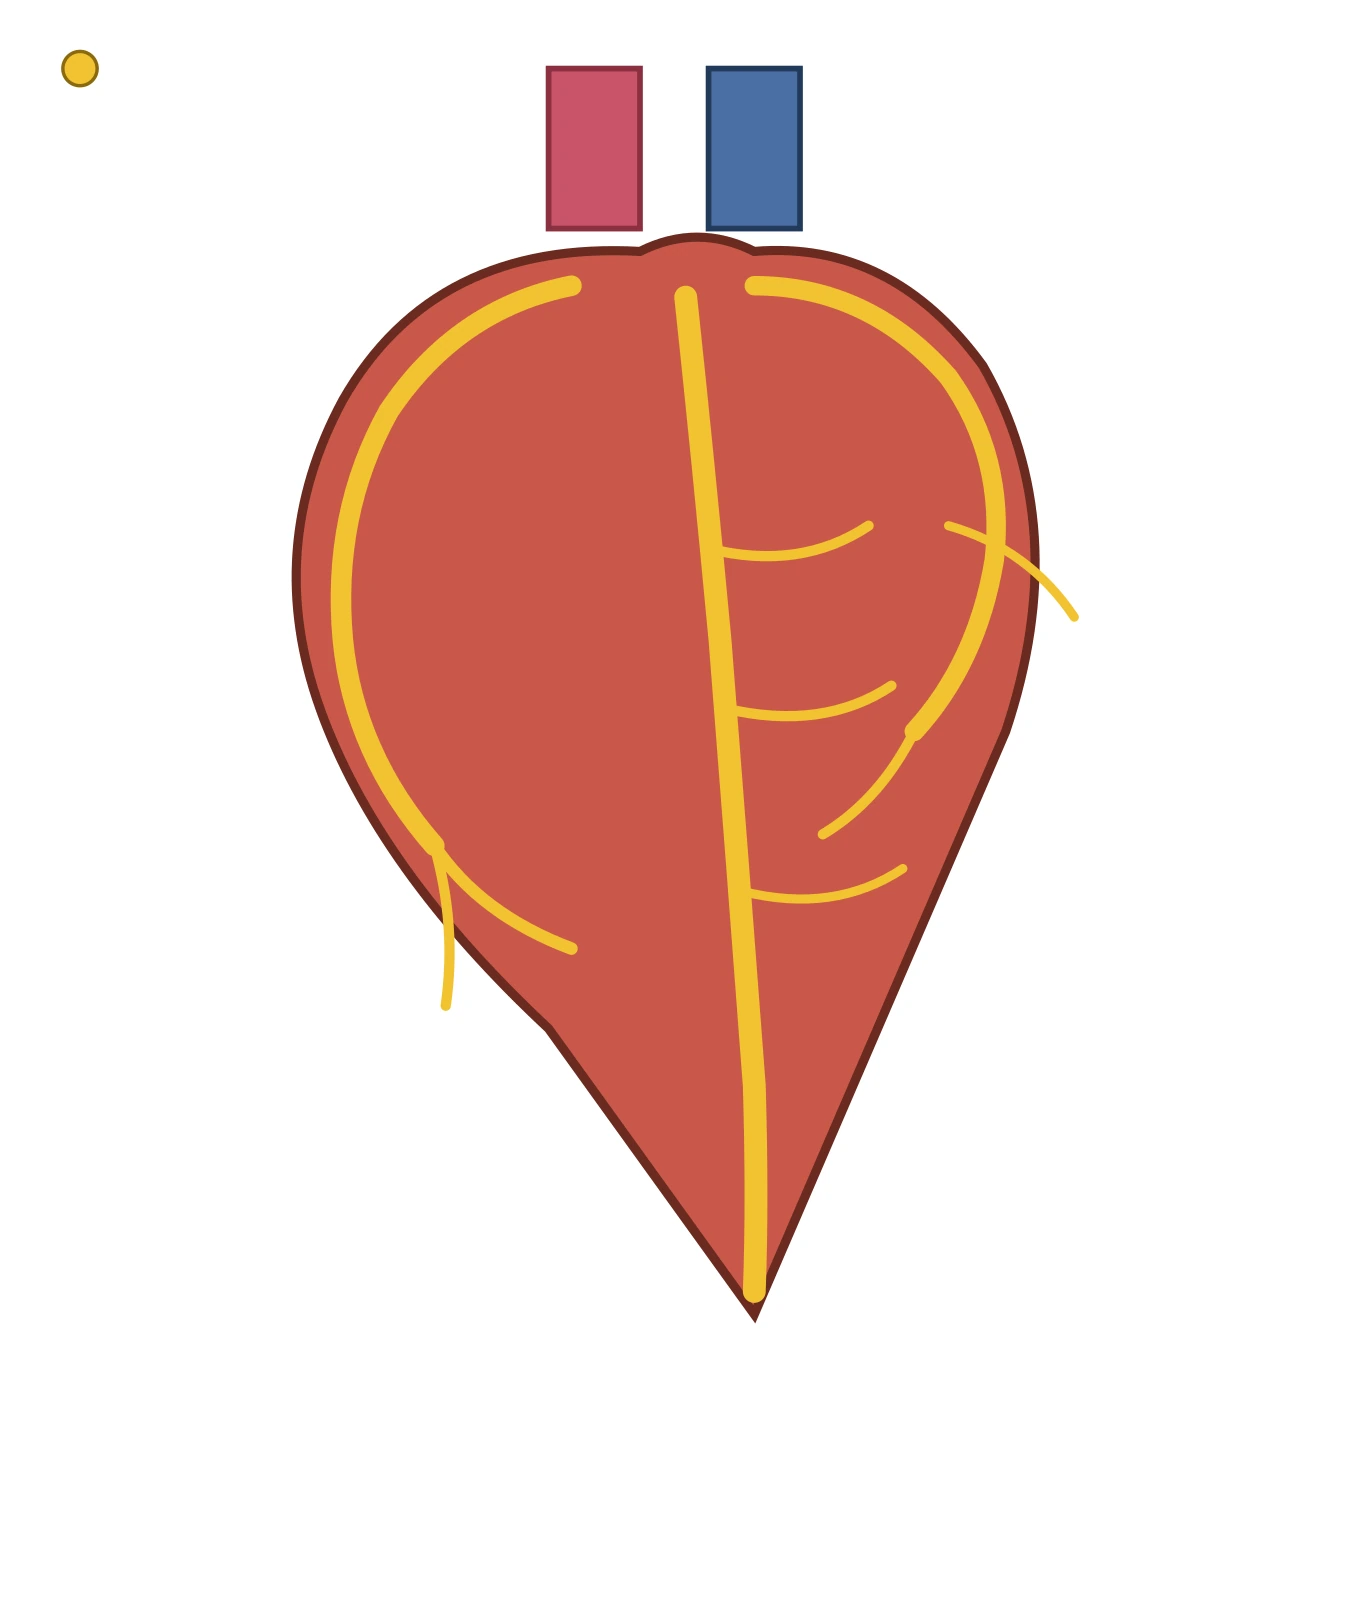
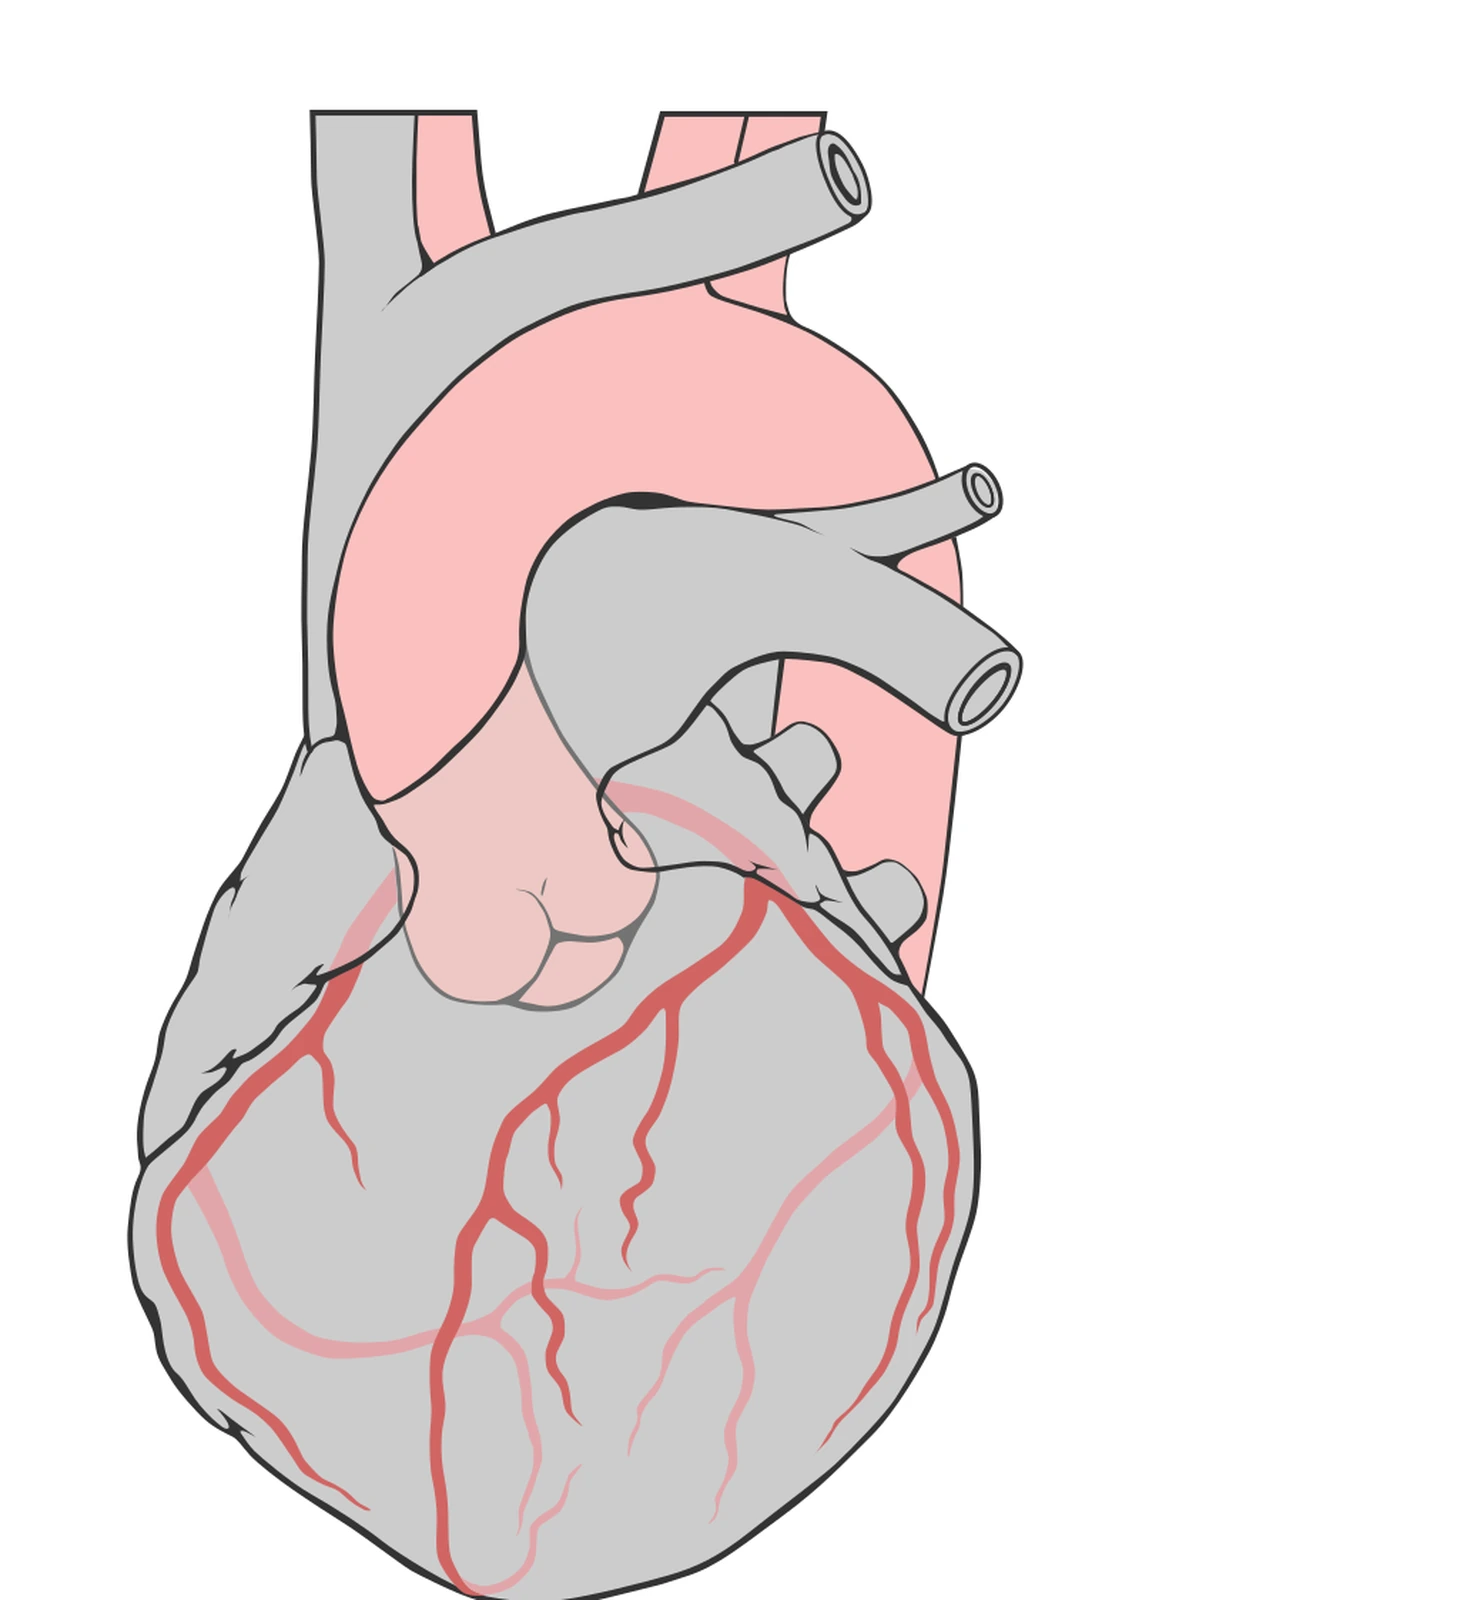
feat: replace 3 more B-tier images with open-license art, resolve Q140 honestly
Continuing the image-first quality pass on top of the 9 S-rank
replacements already on this branch:

- heart_valve_plane.webp (new): Servier Medical Art "Heart valves"
  (superior valve-plane view, AnatomyTOOL, CC BY 4.0), replacing the
  old heart_valves_schematic.webp for Q065/Q066 (tricuspid/mitral,
  pulmonary/aortic). Q129 (chordae tendineae/papillary muscles) keeps
  the old asset unchanged, since the new valve-plane view doesn't
  actually show that structure -- one image per teaching purpose
  rather than forcing a single image to do both.
- q041_alveolar_sac.webp: Servier Medical Art "Alveolar anatomy"
  (AnatomyTOOL, CC BY 4.0), replacing the old simplified grape-cluster
  circles for Q041/Q154.
- q073_coronary_arteries.webp: Patrick J. Lynch / C. Carl Jaffe, MD
  "Coronary arteries" (AnatomyTOOL, CC BY-SA 4.0), replacing the old
  teardrop-silhouette-plus-colored-lines version for Q073/Q074. The
  small in-image creator credit was cropped from the white margin
  (permitted under CC BY-SA); full attribution is recorded in
  docs/v2.0.1_asset_source_log.md and shown in-app (next commit).

Explicitly rejected: all "www.MedicalGraphics.de" AnatomyTOOL images
(several candidates for coronary circulation and lung lobes) turned
out to be CC BY-ND -- no-derivatives, incompatible with the crop/
resize/WebP-convert pipeline this app requires. Recorded so this
isn't re-discovered and mis-used later.

Q140 (coronary sinus) is converted from image_mcq to text_mcq. No
[…]

diff --git a/tools/dataset_validate.js b/tools/dataset_validate.js
@@ -91,12 +91,16 @@ qs.forEach(q => {
   if (!['text_mcq', 'image_mcq'].includes(q.type)) fail(`${q.id}: invalid type "${q.type}"`);
   typeCount[q.type] = (typeCount[q.type] || 0) + 1;
 });
-if ((typeCount.text_mcq || 0) !== 235) fail(`text_mcq count = ${typeCount.text_mcq}, expected 235`);
-if ((typeCount.image_mcq || 0) !== 65) fail(`image_mcq count = ${typeCount.image_mcq}, expected 65`);
+// v2.0.1: Q140 (冠状静脈洞) converted image_mcq -> text_mcq -- no open-license
+// image was found that actually depicts the coronary sinus as an identifiable
+// structure (see docs/v2.0.1_asset_source_log.md), so the question was moved
+// off image_mcq rather than keep an approximate/unverifiable marker.
+if ((typeCount.text_mcq || 0) !== 236) fail(`text_mcq count = ${typeCount.text_mcq}, expected 236`);
+if ((typeCount.image_mcq || 0) !== 64) fail(`image_mcq count = ${typeCount.image_mcq}, expected 64`);
 
 const catImgCount = {};
 qs.forEach(q => { if (q.type === 'image_mcq') catImgCount[q.category] = (catImgCount[q.category] || 0) + 1; });
-const expectCatImg = { '総論': 10, '循環器': 24, '呼吸器': 17, '泌尿器': 14 };
+const expectCatImg = { '総論': 10, '循環器': 23, '呼吸器': 17, '泌尿器': 14 };
 Object.keys(expectCatImg).forEach(c => {
   if ((catImgCount[c] || 0) !== expectCatImg[c]) fail(`category ${c} image_mcq count = ${catImgCount[c] || 0}, expected ${expectCatImg[c]}`);
 });
@@ -154,7 +158,11 @@ qs.forEach(q => {
   });
 });
 
-if (referencedAssets.size !== 27) fail(`unique referenced assets = ${referencedAssets.size}, expected 27`);
+// v2.0.1: heart_valve_plane.webp (Q065/Q066, superior valve-plane view) was
+// added alongside the unchanged heart_valves_schematic.webp (kept for Q129's
+// chordae tendineae/papillary muscle view only) -- two distinct views serving
+// two distinct teaching purposes, not a duplicate.
+if (referencedAssets.size !== 28) fail(`unique referenced assets = ${referencedAssets.size}, expected 28`);
 
 const allFiles = fs.existsSync(assetsDir) ? fs.readdirSync(assetsDir).filter(f => f.endsWith('.webp')) : [];
 allFiles.forEach(f => { if (!referencedAssets.has(f)) warn(`asset file not referenced by any question: ${f}`); });

diff --git a/tools/queue_distribution_test.js b/tools/queue_distribution_test.js
@@ -41,8 +41,10 @@ function note(msg) { notes.push(msg); }
 // (a) source pool: exact image_mcq count must be 65, never silently drift
 // ---------------------------------------------------------------------
 const imageMcq = qs.filter(q => q.type === 'image_mcq');
-if (imageMcq.length !== 65) {
-  fail(`expected 65 image_mcq in source pool, found ${imageMcq.length}`);
+// v2.0.1: Q140 converted to text_mcq (no verifiable open-license image of the
+// coronary sinus found) -- 65 -> 64. See docs/v2.0.1_asset_source_log.md.
+if (imageMcq.length !== 64) {
+  fail(`expected 64 image_mcq in source pool, found ${imageMcq.length}`);
 } else {
   note(`source pool: ${imageMcq.length}/${qs.length} questions are image_mcq (OK)`);
 }
